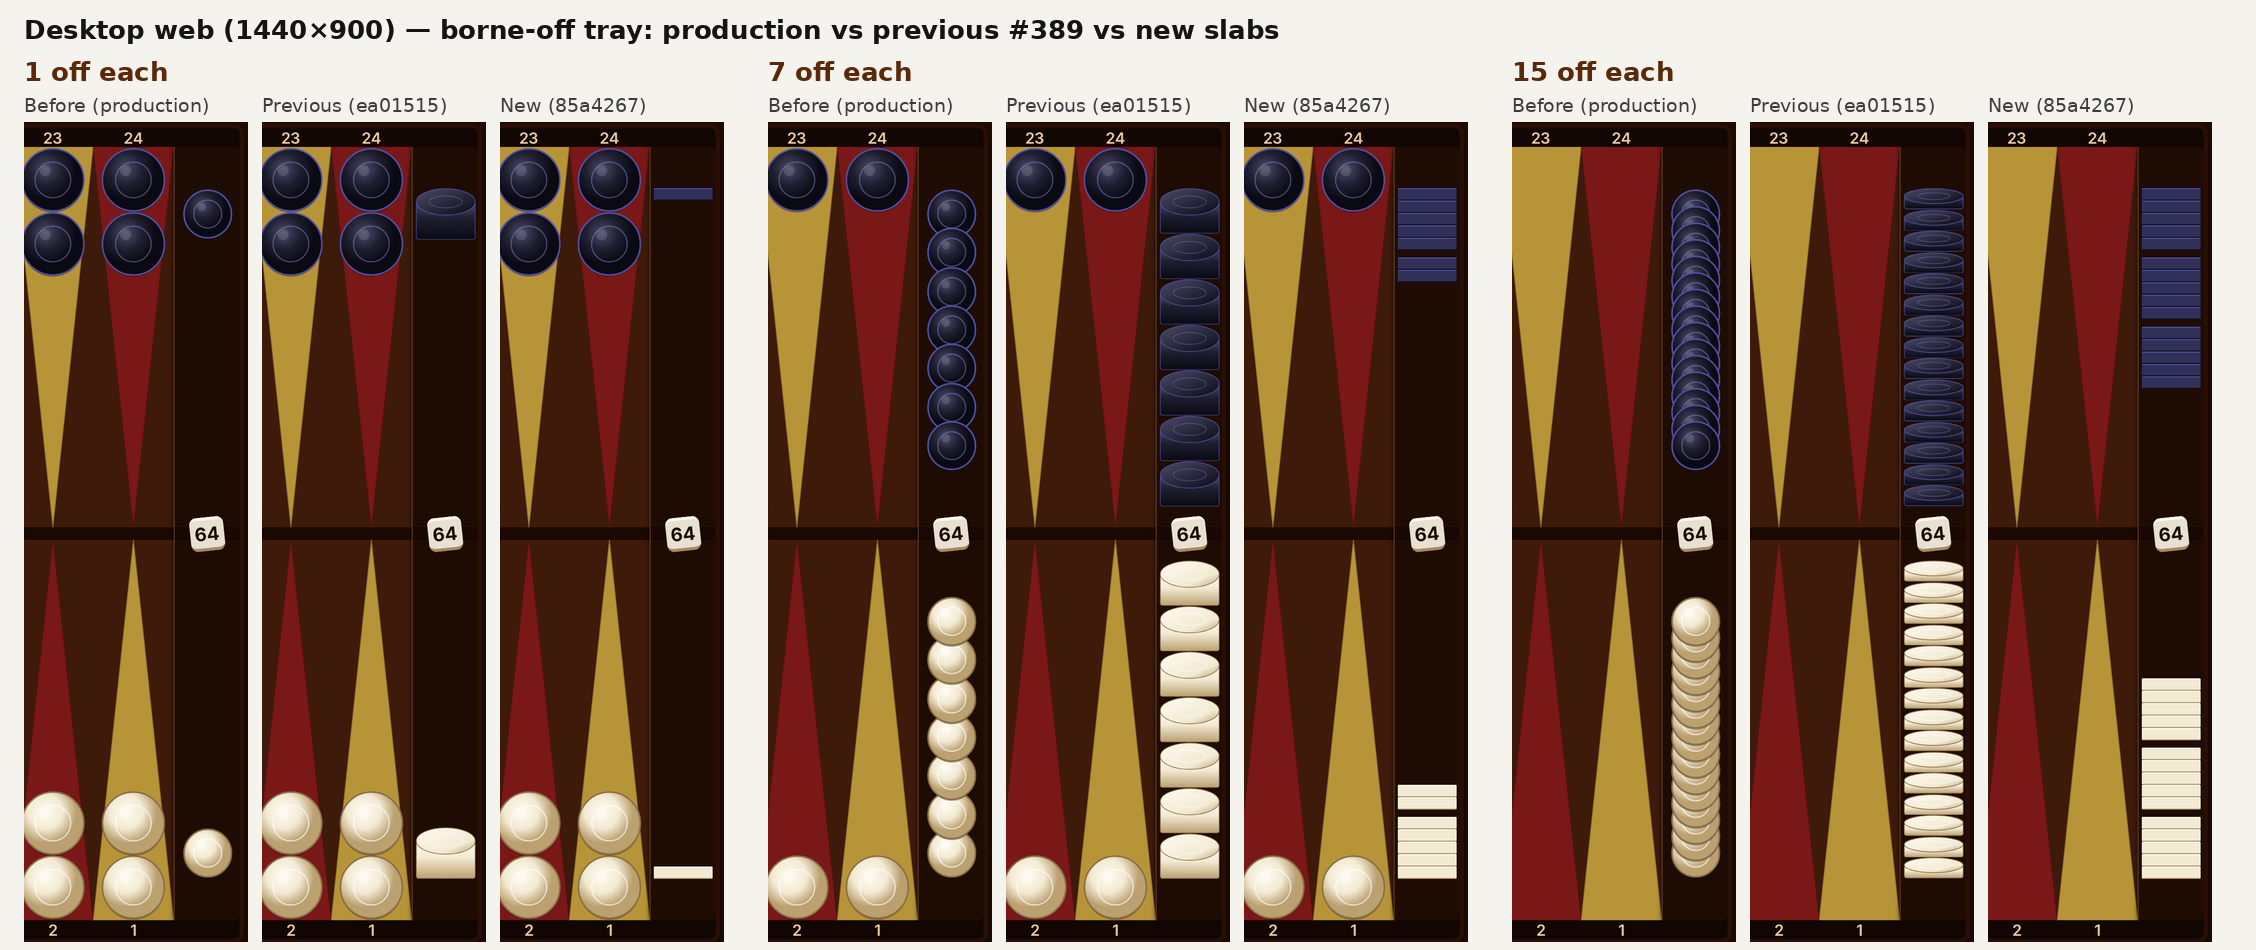
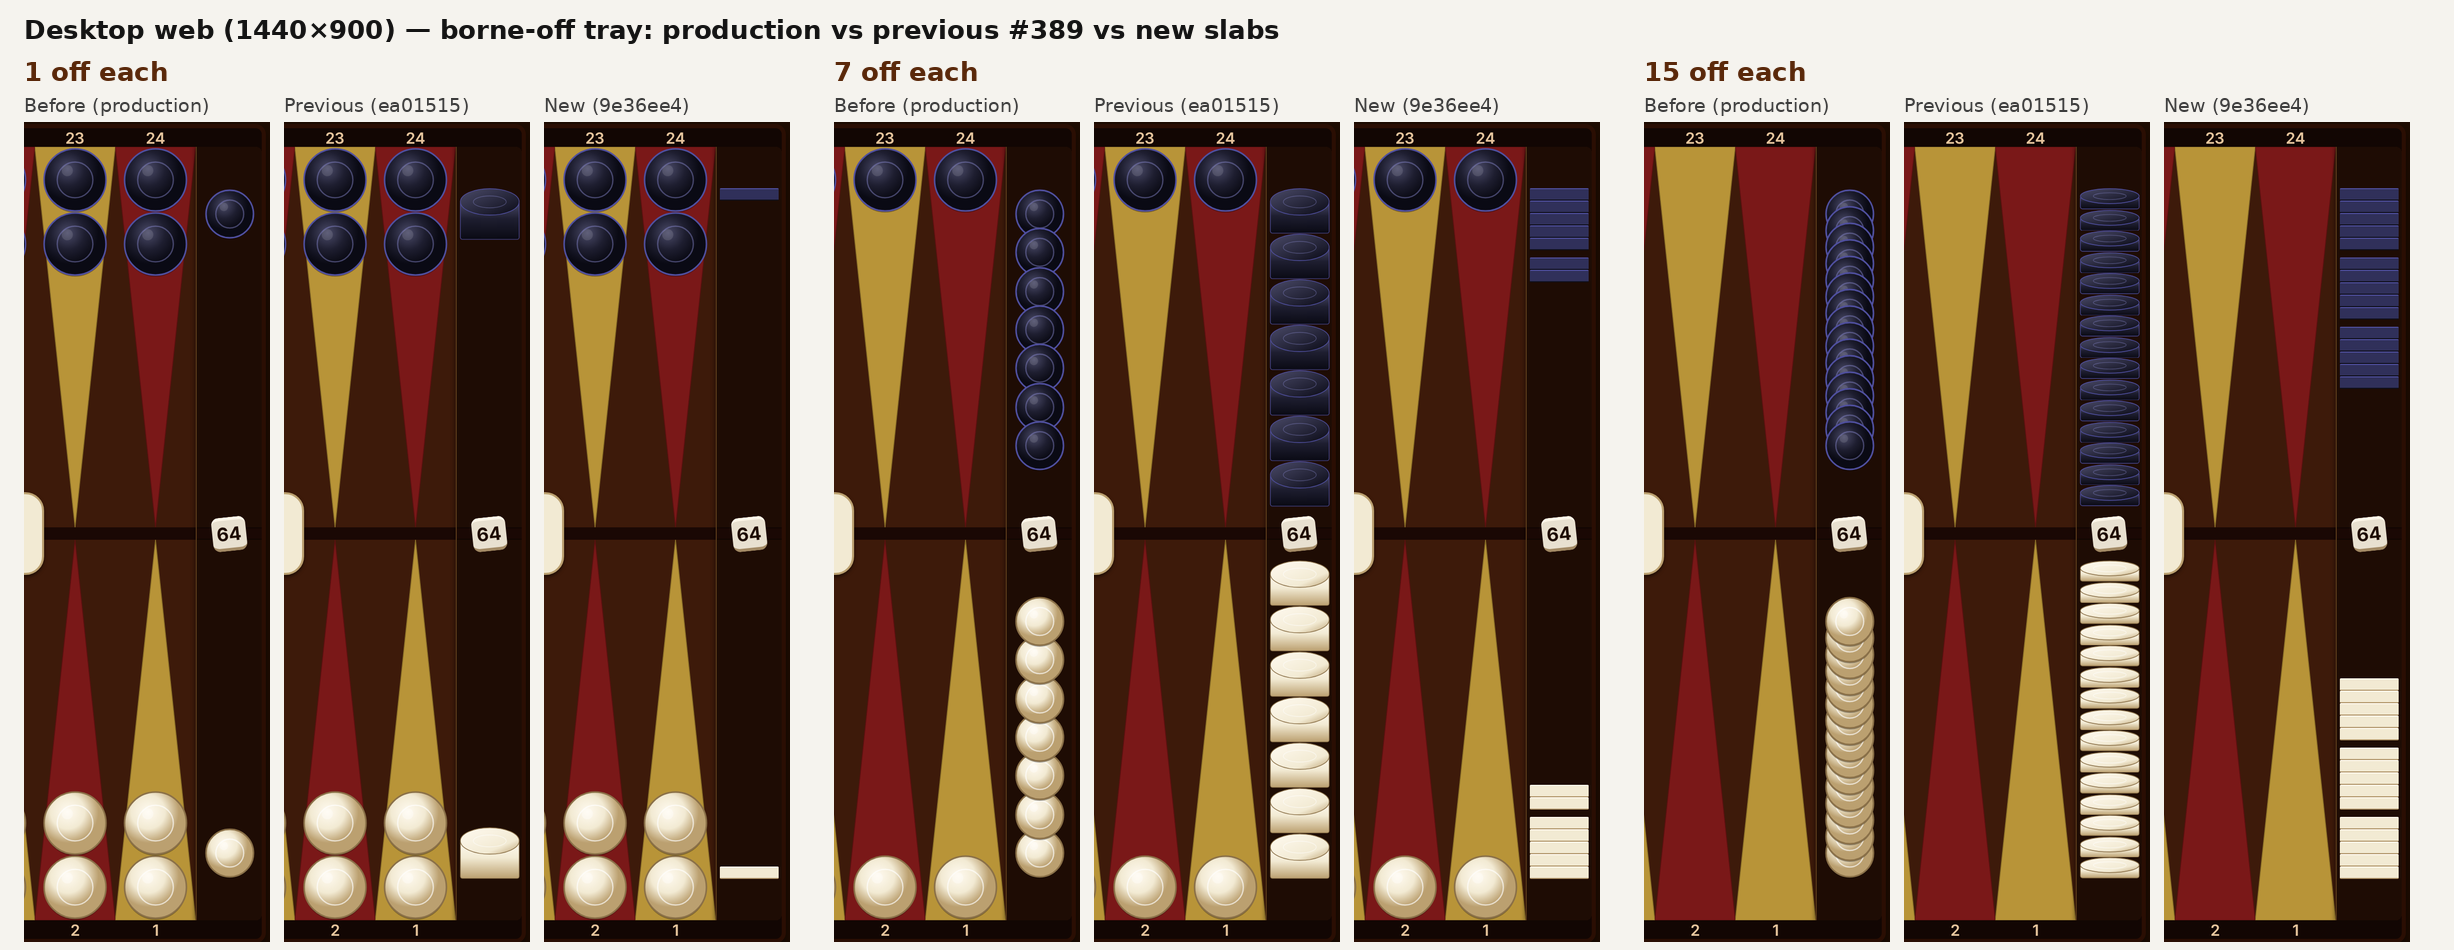
evidence: PR #389 at 9e36ee4 (pixel-identical to 85a4267)

Changed region(s): [[0.0, 0.0, 0.9929, 0.9768]]

diff --git a/README.md b/README.md
@@ -1,7 +1,7 @@
-# PR #389 evidence: thin XG-style borne-off slabs (85a4267)
+# PR #389 evidence: thin XG-style borne-off slabs (9e36ee4)
 
-Before = production, Previous = ea01515 (edge-on discs), New = 85a4267.
-Shots taken with Playwright from share-position URLs: production, the ea01515 preview and the 85a4267 preview.
+Before = production, Previous = ea01515 (edge-on discs), New = 9e36ee4.
+Shots taken with Playwright from share-position URLs: production, the ea01515 preview and the 9e36ee4 preview.
 
 - compare-iphone-portrait.png (402×874 @3x)
 - compare-iphone-landscape.png (874×402 @3x)
